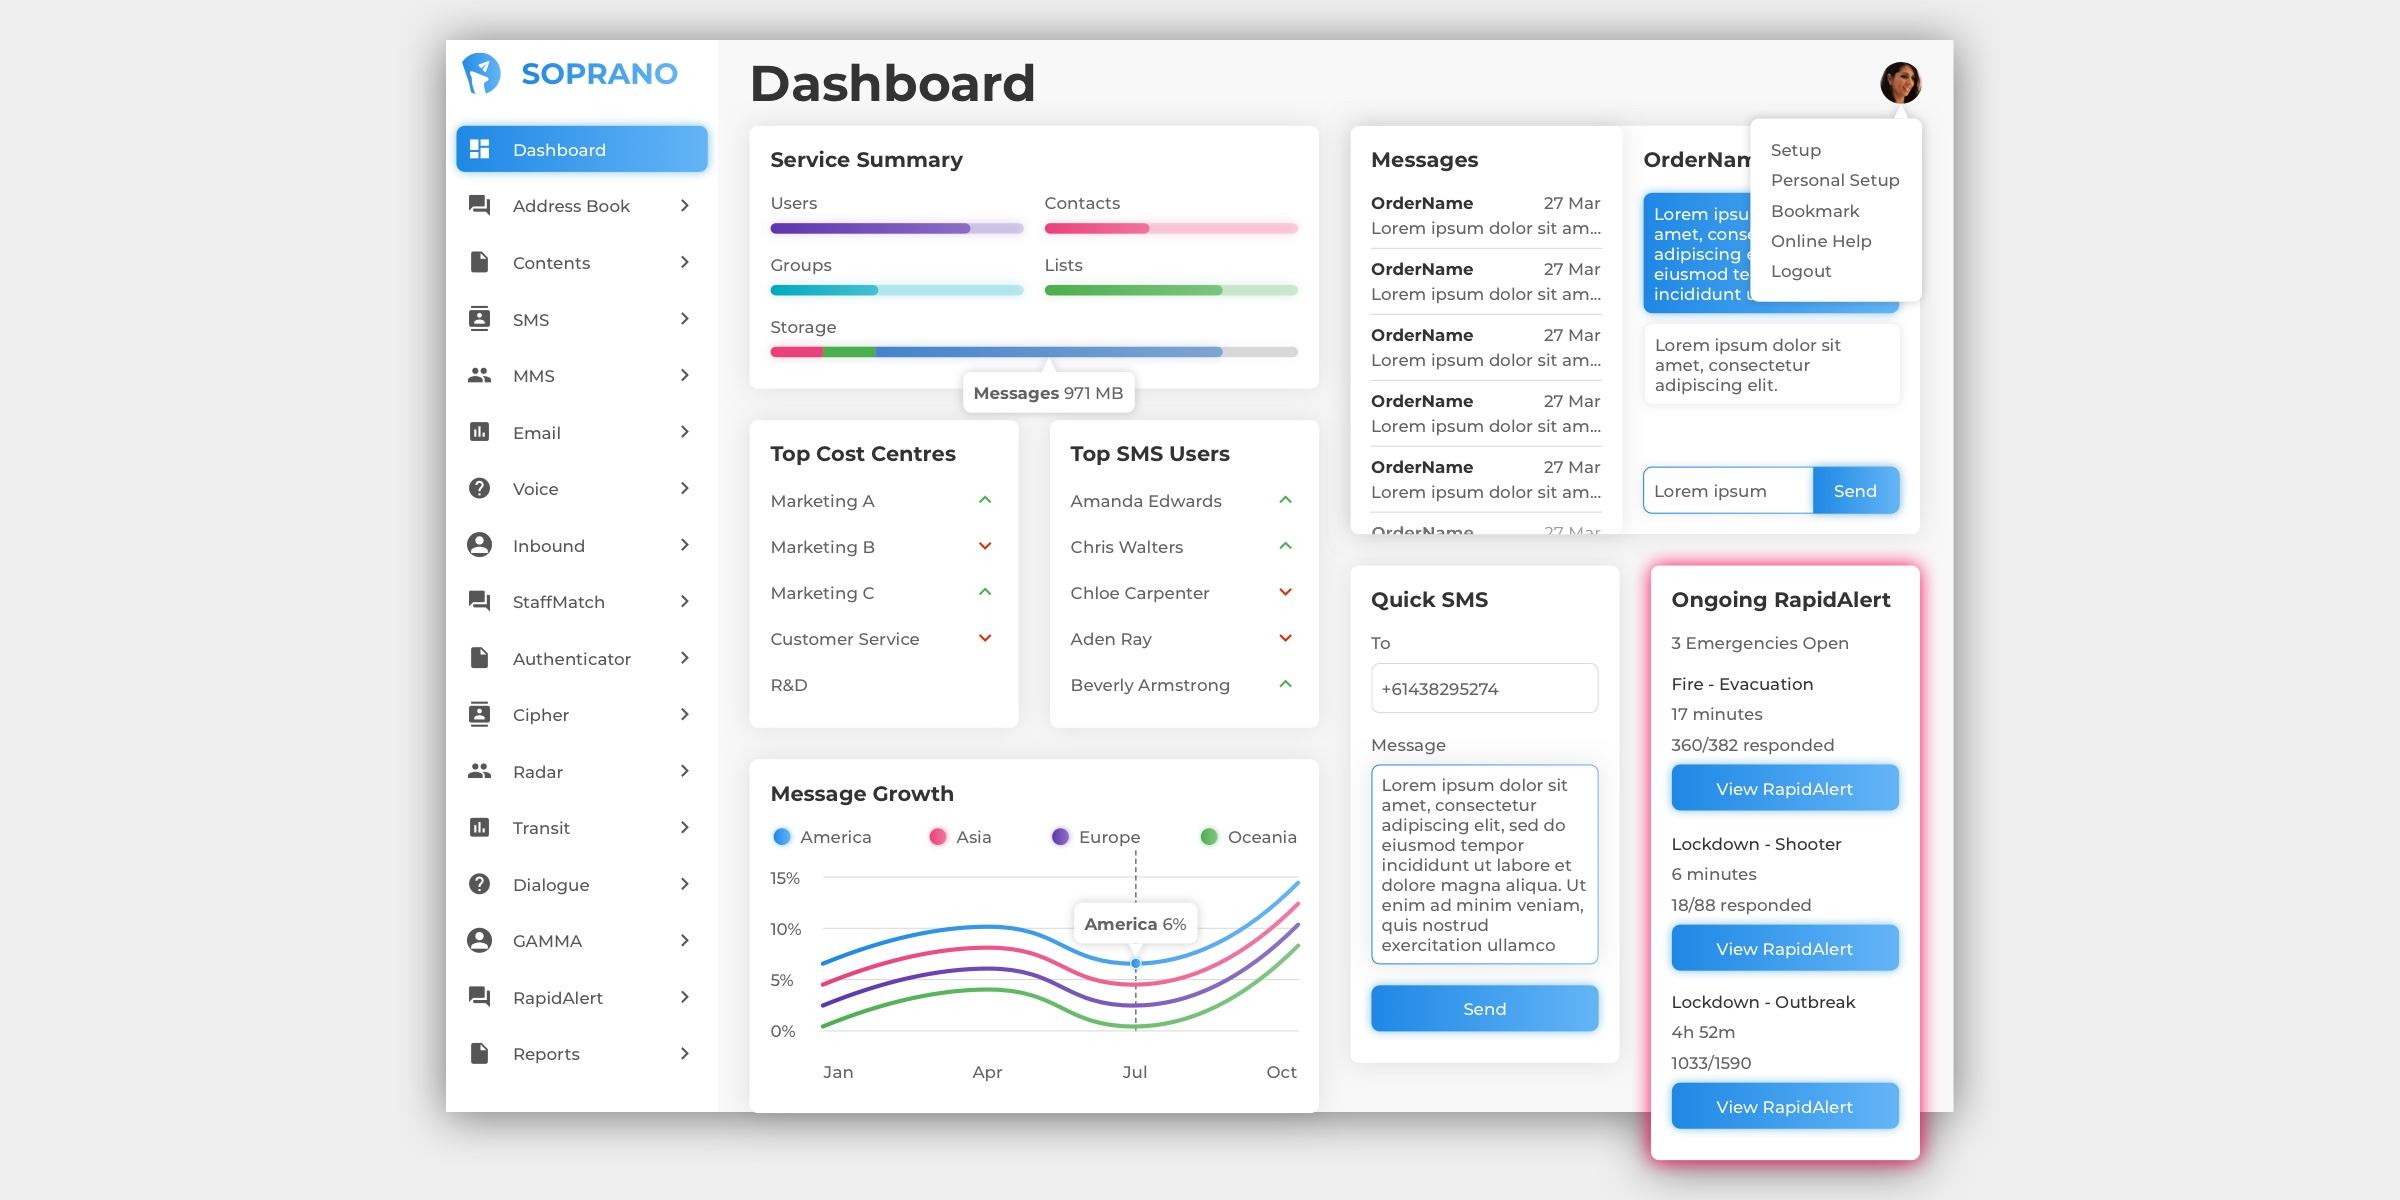
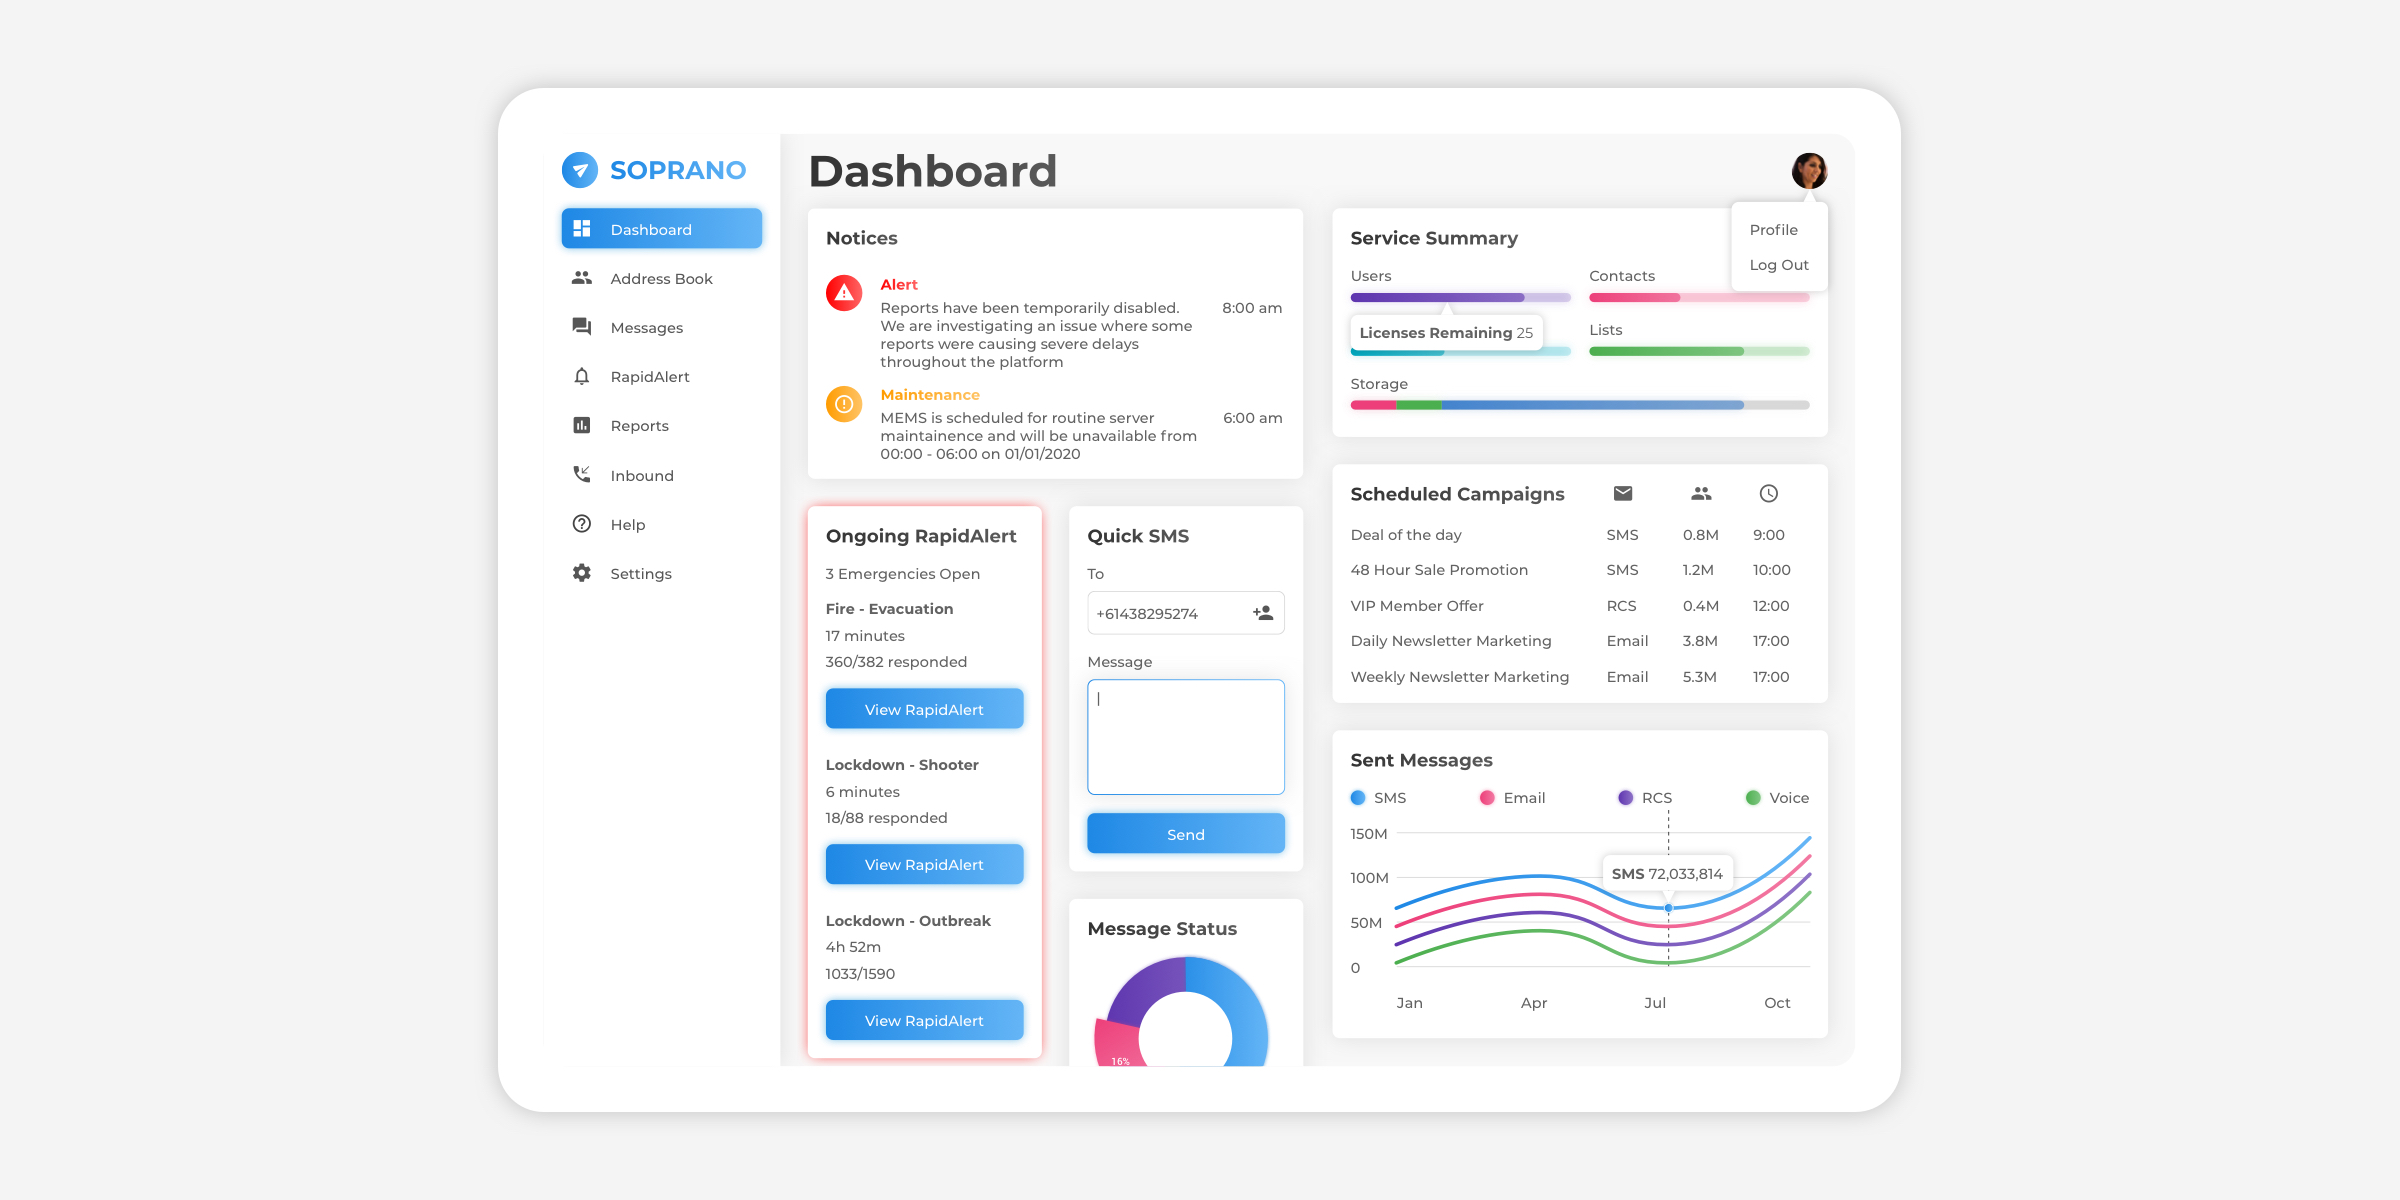
Responsive

Changed region(s): [[0.1562, 0.0, 0.8438, 1.0], [0.25, 0.4625, 0.2812, 0.4933]]

diff --git a/src/components/layout.css b/src/components/layout.css
@@ -1,88 +1,56 @@
-@import url("https://fonts.googleapis.com/css?family=Muli:400,800&display=swap");
+@import url("https://fonts.googleapis.com/css?family=Muli:800,900&display=swap");
 
 body {
   font-family: "Muli", -apple-system, BlinkMacSystemFont, "Segoe UI", Roboto,
     Oxygen, Ubuntu, Cantarell, "Open Sans", "Helvetica Neue", sans-serif;
   margin: 0;
   padding: 0;
+}
+
+h1, h2, h3, p, a{
   margin-block-start: 0em;
   margin-block-end: 0em;
   margin-inline-start: 0em;
   margin-inline-end: 0em;
   display: block;
+  text-decoration: none;
   -webkit-font-smoothing: antialiased;
+  line-height: 1.2;
+  margin-bottom: 8px;
 }
 
 h1 {
-  margin-block-start: 0em;
-  margin-block-end: 0em;
-  margin-inline-start: 0em;
-  margin-inline-end: 0em;
-  display: block;
-
-  font-weight: 800;
+  font-weight: 900;
   font-size: 112px;
-  line-height: 1;
   color: #000000;
+  line-height: 1;
   margin-bottom: 32px;
 }
 
 h2 {
-  margin-block-start: 0em;
-  margin-block-end: 0em;
-  margin-inline-start: 0em;
-  margin-inline-end: 0em;
-  display: block;
-
-  font-weight: 800;
+  font-weight: 900;
   font-size: 48px;
-  line-height: 1.2;
   color: #000000;
-  margin-bottom: 8px;
+  line-height: 1;
 }
 
 h3 {
-  margin-block-start: 0em;
-  margin-block-end: 0em;
-  margin-inline-start: 0em;
-  margin-inline-end: 0em;
-  display: block;
-
   font-weight: 800;
   font-size: 32px;
-  line-height: 1.2;
-  color: #999999;
-  margin-bottom: 8px;
+  color: #888888;
 }
 
 p {
-  margin-block-start: 0em;
-  margin-block-end: 0em;
-  margin-inline-start: 0em;
-  margin-inline-end: 0em;
-  display: block;
-
   font-weight: 800;
   font-size: 20px;
-  line-height: 1.5;
-  color: #999999;
-  margin-bottom: 16px;
+  color: #888888;
 }
 
 a {
-  margin-block-start: 0em;
-  margin-block-end: 0em;
-  margin-inline-start: 0em;
-  margin-inline-end: 0em;
-  display: block;
-
   font-weight: 800;
-  font-size: 16px;
-  line-height: 1.2;
+  font-size: 18px;
   color: #000000;
-  text-decoration: none;
   display: inline-block;
-  margin-bottom: 8px;
 }
 
 a:hover {
@@ -99,9 +67,10 @@ img {
 
 .HeroGroup {
   margin: 0 auto;
+  margin-top: 128px;
+  padding: 0 32px;
   min-height: calc(100vh - 232px);
   max-width: 1200px;
-  padding: 60px 32px;
 }
 
 .Button {
@@ -111,6 +80,7 @@ img {
   border: none;
   padding: 16px 32px;
   cursor: pointer;
+  margin-top: 16px;
 }
 
 .Button:hover {
@@ -121,11 +91,14 @@ img {
   color: #000000;
   font-weight: 800;
   font-size: 32px;
-  line-height: 1.5;
-  margin-bottom: 8px;
 }
 
 @media all and (max-width: 1200px) {
+  .HeroGroup {
+    margin-top: 64px;
+    min-height: 640px;
+  }
+
   h1 {
     font-size: 96px;
   }
@@ -139,8 +112,46 @@ img {
   }
 
   p {
-    font-size: 18px;
+    font-size: 16px;
+  }
+
+  a{
+    font-size: 16px;
+  }
+
+  #CompanyLink {
+    font-size: 24px;
   }
 }
 
+@media screen and (max-width: 414px){
+  .HeroGroup {
+    margin-top: 16px;
+    min-height: 640px;
+  }
+
+  h1 {
+    font-size: 64px;
+  }
+
+  h2 {
+    font-size: 32px;
+  }
+
+  h3 {
+    font-size: 24px;
+  }
+
+  p {
+    font-size: 16px;
+  }
+
+  a{
+    font-size: 16px;
+  }
+
+  #CompanyLink {
+    font-size: 24px;
+  }
+}
 

diff --git a/src/pages/about.js b/src/pages/about.js
@@ -12,28 +12,6 @@ const About = () => (
   <Layout>
     <SEO title="About" />
     <Nav />
-    <div className="Projects">
-      <div className="ProjectGroup">
-        <Project
-          title="MEMS"
-          description="The messaging platform powering enterprise and government."
-          button="mems"
-          image={MEMS}
-        />
-        <Project
-          title="GAMMA"
-          description="Trusted mobile messaging and workflow integrations."
-          button="gamma"
-          image={GAMMA}
-        />
-        <Project
-          title="QOIPR"
-          description="The all-in-one reselling platform solution for SMB"
-          button="qoipr"
-          image={GAMMA}
-        />
-      </div>
-    </div>
     <Footer />
   </Layout>
 )

diff --git a/src/components/footer.css b/src/components/footer.css
@@ -1,19 +1,16 @@
 .Footer {
   background-color: #000000;
-}
-
-.FooterGroup {
-  min-height: calc(100vh - 240px);
-  max-width: 1200px;
-  margin: 0 auto;
   padding: 120px 32px;
 }
 
-.Footer h2 {
-  color: #ffffff;
-  margin-bottom: 16px;
+.FooterGroup {
+  position: relative;
+  margin: 0 auto;
+  min-height: calc(100vh - 240px);
+  max-width: 1200px;
 }
 
+.Footer h2,
 .Footer a {
   color: #ffffff;
 }
@@ -21,9 +18,16 @@
 .Footer .Button {
   color: #000000;
   background-color: #ffffff;
-  margin-top: 10vh;
+  margin-top: 120px;
 }
 
 .Signature {
-  padding-top: 30vh;
+  position: absolute;
+  bottom: 0;
+}
+
+@media all and (max-width: 1200px) {
+  .FooterGroup {
+    min-height: 540px;
+  }
 }

diff --git a/src/pages/index.js b/src/pages/index.js
@@ -5,7 +5,7 @@ import Nav from "..//components/nav"
 import Project from "..//components/project"
 import Footer from "..//components/footer"
 import MEMS from "../images/mems.jpg"
-import GAMMA from "../images/mems.jpg"
+import GAMMA from "../images/gamma.jpg"
 
 const IndexPage = () => (
   <Layout>
@@ -45,12 +45,14 @@ const IndexPage = () => (
       button="gamma"
       image={GAMMA}
     />
+    {/*
     <Project
       title="QOIPR"
       description="The all-in-one reselling platform solution for SMB"
       button="qoipr"
       image={GAMMA}
     />
+    */}
     <Footer />
   </Layout>
 )

diff --git a/src/components/nav.js b/src/components/nav.js
@@ -8,15 +8,17 @@ const Nav = props => (
   <div className="Nav">
     <div className="NavGroup">
       <Link className="NavLogo" to="/">
-        <img src={Logo} alt="" />
+        <img src={Logo} alt="David Rogers home page" />
       </Link>
       <div className="NavRight">
         <Link className="NavLink" to="/">
           Portfolio
         </Link>
+        {/*
         <Link className="NavLink" to="/about/">
           About
         </Link>
+        */}
         <a className="NavLink" href={Resume}>
           Resume
         </a>

diff --git a/src/pages/404.js b/src/pages/404.js
@@ -2,6 +2,7 @@ import React from "react"
 import SEO from "../components/seo"
 import Layout from "../components/layout"
 import Nav from "..//components/nav"
+import Footer from "..//components/footer"
 
 const NotFoundPage = () => (
   <Layout>
@@ -12,6 +13,7 @@ const NotFoundPage = () => (
         <h1>Page Not Found</h1>
       </div>
     </div>
+    <Footer />
   </Layout>
 )
 

diff --git a/src/components/footer.js b/src/components/footer.js
@@ -14,9 +14,11 @@ const Footer = props => (
       <a className="Button" href="https://www.linkedin.com/in/davidrogerz/">
         Get In Touch
       </a>
+      
       <Link className="NavLink" to="/about/">
         Learn more about me
       </Link>
+      
       <p className="Signature">
         Designed and developed by David Rogers in San Francisco, California
       </p>

diff --git a/src/components/project.js b/src/components/project.js
@@ -12,7 +12,7 @@ const Project = props => (
       <Link to={props.button}>View Case Study</Link>
     </div>
     <Link to={props.button}>
-      <img src={props.image} alt="" />
+      <img src={props.image} alt="View project case study" />
     </Link>
   </div>
 )

diff --git a/src/components/nav.css b/src/components/nav.css
@@ -23,3 +23,14 @@
   max-width: 48px;
   margin: 0;
 }
+
+@media screen and (max-width: 414px){
+  .NavGroup{
+    display: grid;
+    grid-template-columns: repeat(2, 10% 90%);
+  }
+  
+  .NavLink {
+    margin: 0 0 0 16px;
+  }
+}

diff --git a/src/components/project.css b/src/components/project.css
@@ -1,7 +1,8 @@
 .Project {
   max-width: 1200px;
   margin: 0 auto;
-  padding: 60px 32px;
+  margin-bottom: 128px;
+  padding: 0px 32px;
 }
 
 .ProjectDetails {
